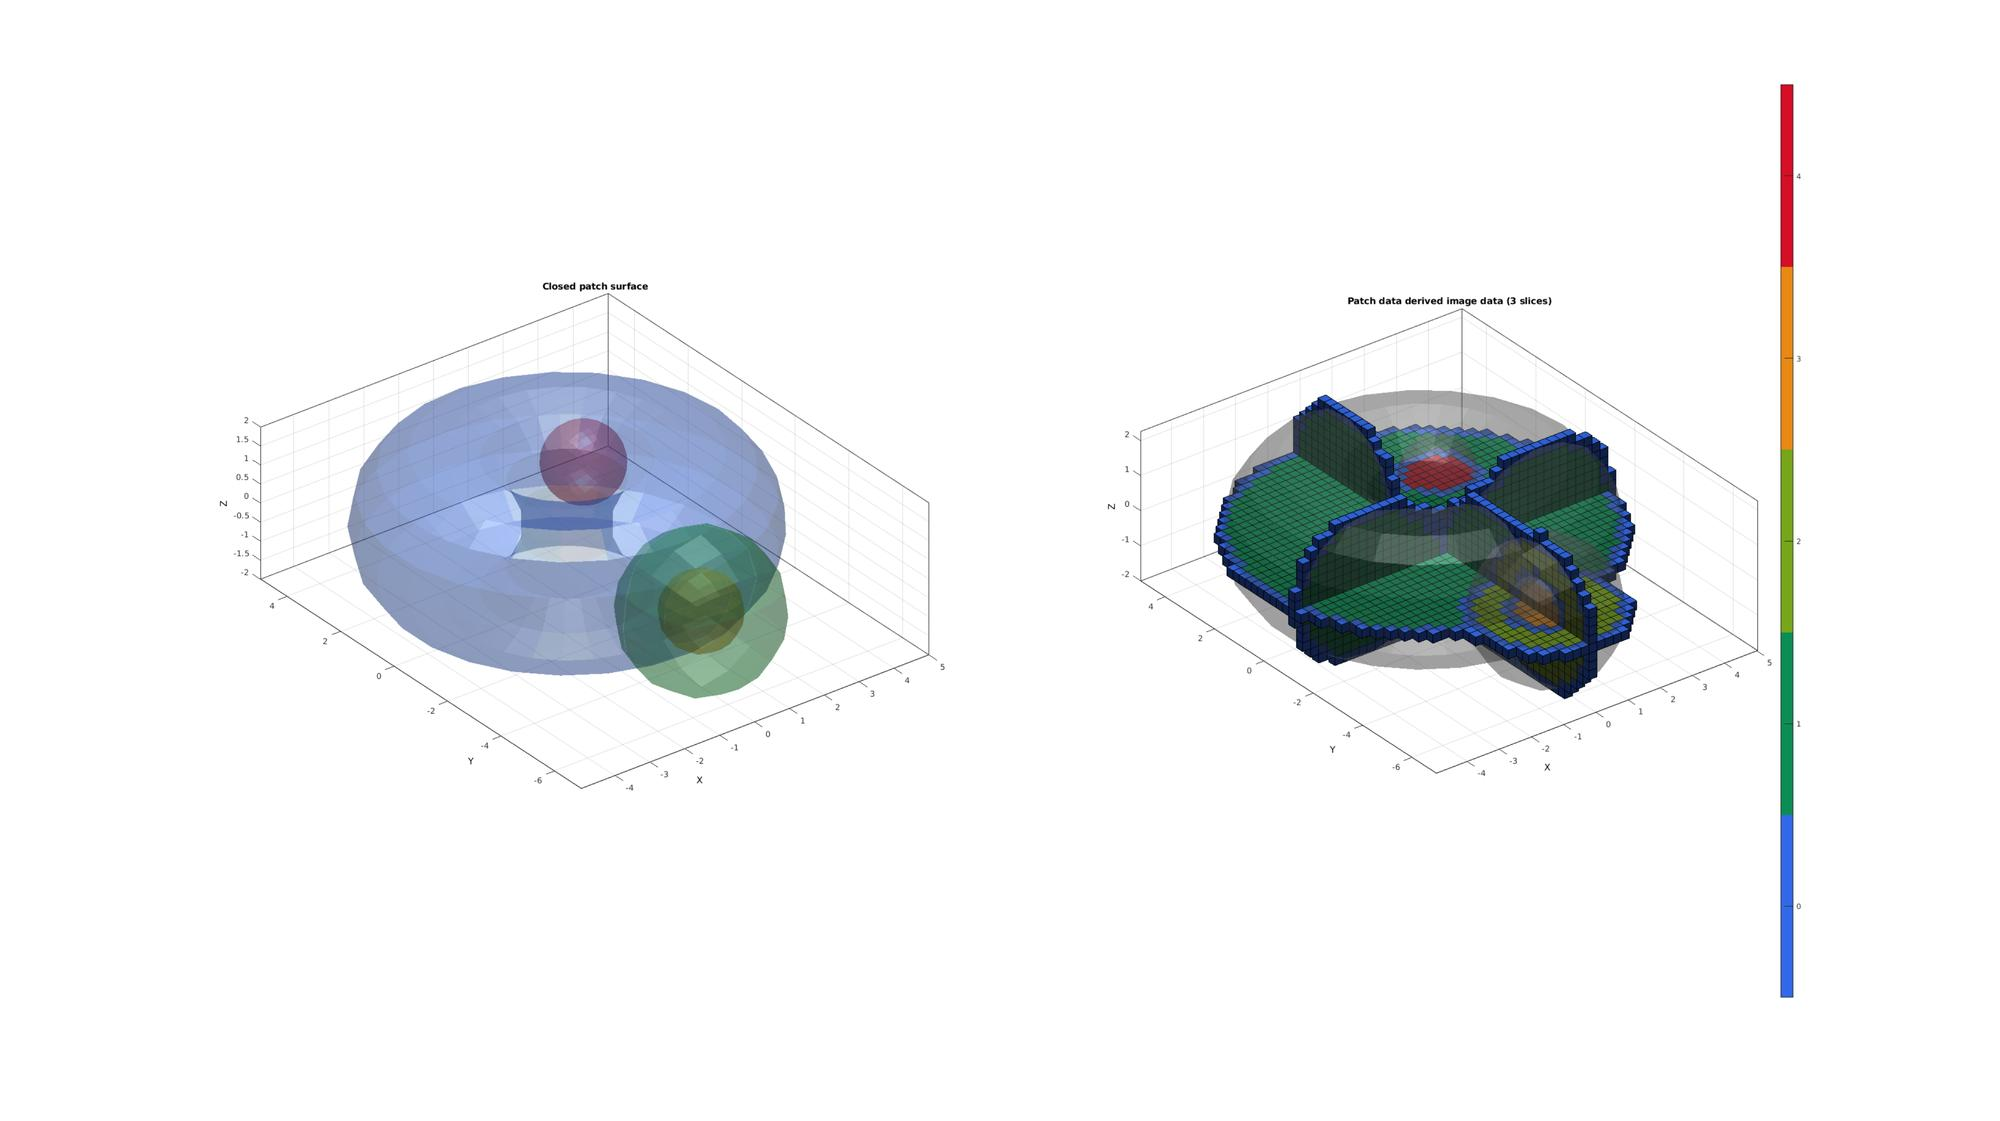
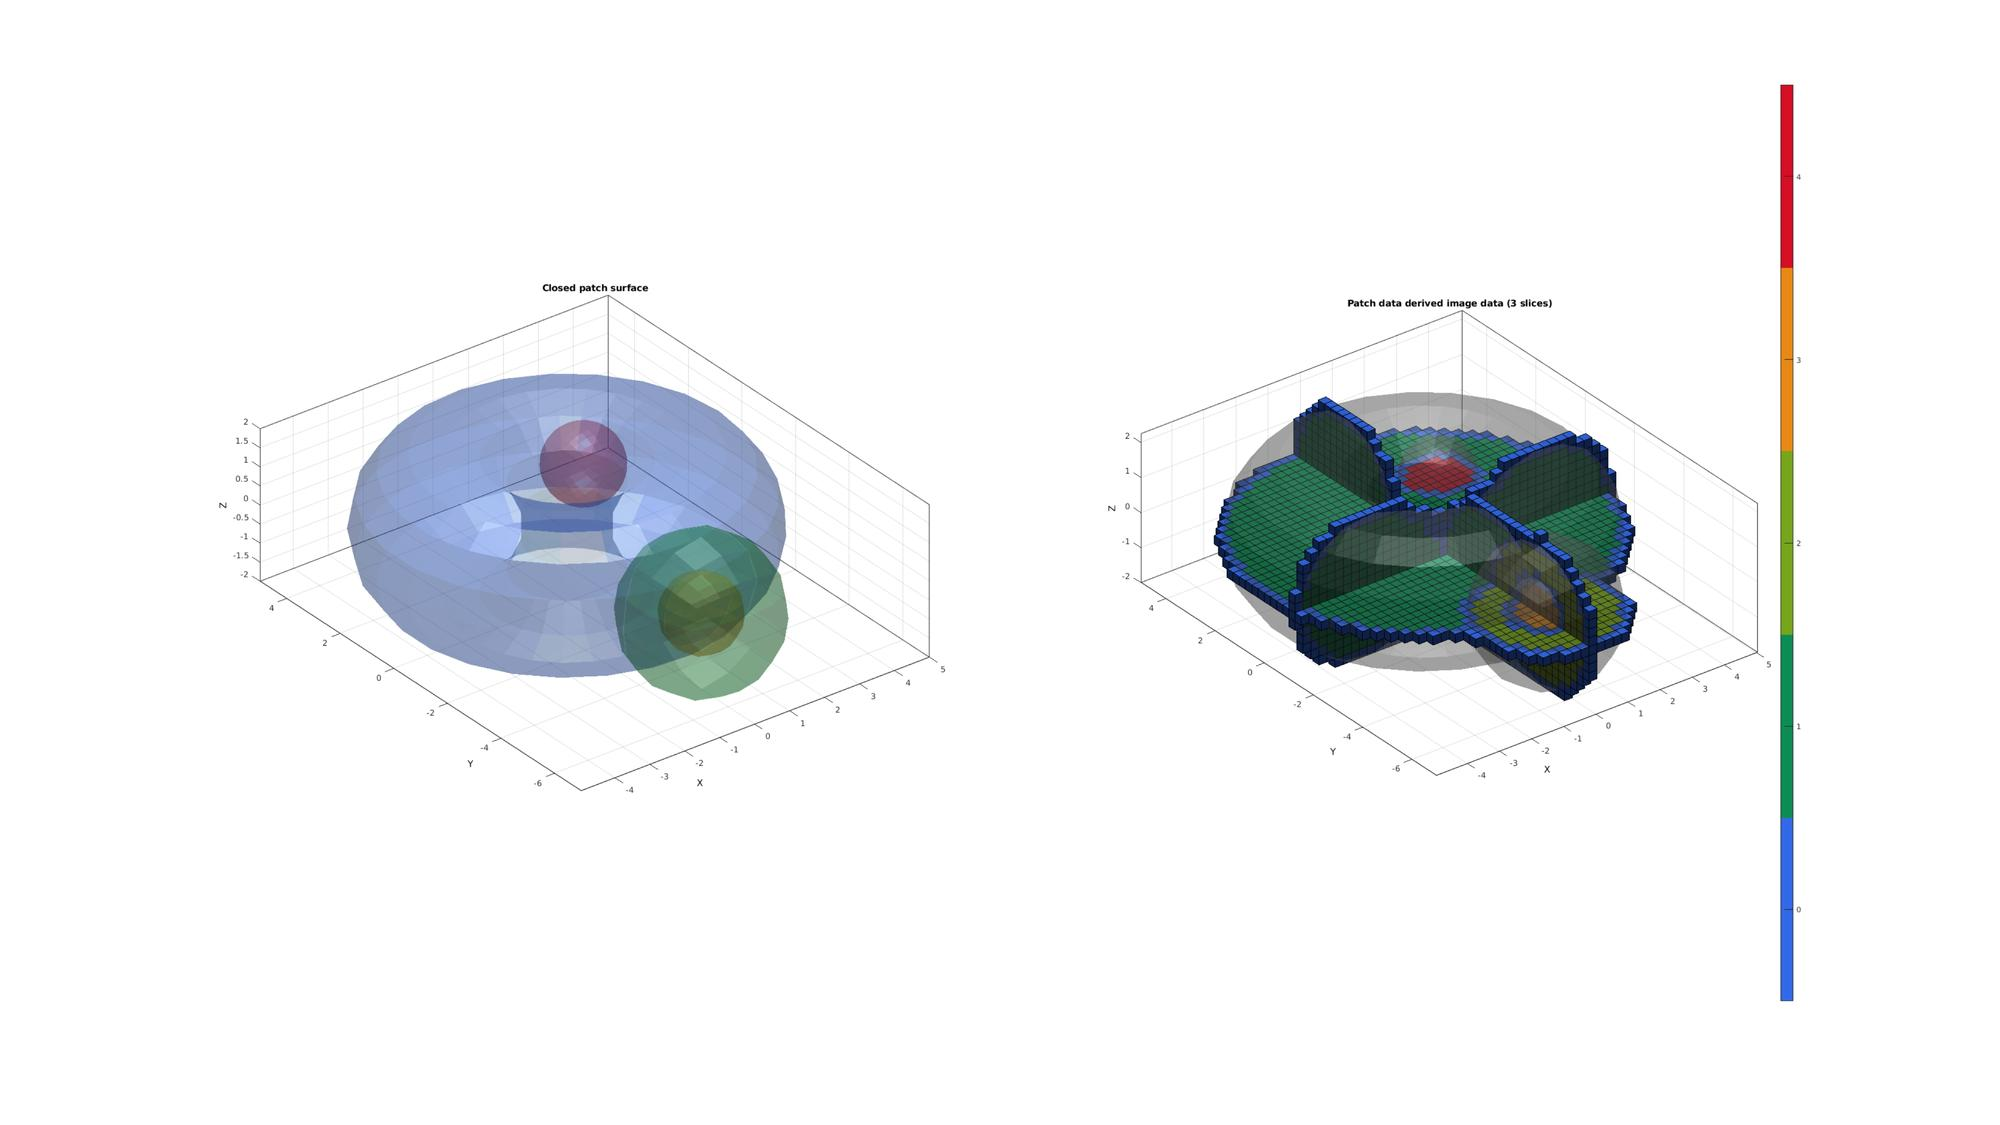
Updated patch2Im documentation

diff --git a/docs/html/HELP_patch2Im.html b/docs/html/HELP_patch2Im.html
@@ -6,7 +6,7 @@
    <!--
 This HTML was auto-generated from MATLAB code.
 To make changes, update the MATLAB code and republish this document.
-      --><title>patch2Im</title><meta name="generator" content="MATLAB 9.6"><link rel="schema.DC" href="http://purl.org/dc/elements/1.1/"><meta name="DC.date" content="2019-06-20"><meta name="DC.source" content="HELP_patch2Im.m"><style type="text/css">
+      --><title>patch2Im</title><meta name="generator" content="MATLAB 9.6"><link rel="schema.DC" href="http://purl.org/dc/elements/1.1/"><meta name="DC.date" content="2019-06-28"><meta name="DC.source" content="HELP_patch2Im.m"><style type="text/css">
 html,body,div,span,applet,object,iframe,h1,h2,h3,h4,h5,h6,p,blockquote,pre,a,abbr,acronym,address,big,cite,code,del,dfn,em,font,img,ins,kbd,q,s,samp,small,strike,strong,sub,sup,tt,var,b,u,i,center,dl,dt,dd,ol,ul,li,fieldset,form,label,legend,table,caption,tbody,tfoot,thead,tr,th,td{margin:0;padding:0;border:0;outline:0;font-size:100%;vertical-align:baseline;background:transparent}body{line-height:1}ol,ul{list-style:none}blockquote,q{quotes:none}blockquote:before,blockquote:after,q:before,q:after{content:'';content:none}:focus{outine:0}ins{text-decoration:none}del{text-decoration:line-through}table{border-collapse:collapse;border-spacing:0}
 
 html { min-height:100%; margin-bottom:1px; }
@@ -90,7 +90,7 @@ L_plot(:,:,round(size(M,3)/2))=1;
 L_plot(round(size(M,1)/2),:,:)=1;
 L_plot(:,round(size(M,2)/2),:)=1;
 L_plot=L_plot &amp; ~isnan(M);
-[Fm,Vm,Cm]=ind2patch(L_plot,double(M),<span class="string">'v'</span>);
+[Fm,Vm,Cm]=im2patch(M,L_plot,<span class="string">'v'</span>);
 [Vm(:,1),Vm(:,2),Vm(:,3)]=im2cart(Vm(:,2),Vm(:,1),Vm(:,3),voxelSize*ones(1,3));
 Vm=Vm+imOrigin(ones(size(Vm,1),1),:);
 
@@ -129,7 +129,7 @@ L_plot(:,:,round(size(M,3)/2))=1;
 L_plot(round(size(M,1)/2),:,:)=1;
 L_plot(:,round(size(M,2)/2),:)=1;
 L_plot=L_plot &amp; ~isnan(M);
-[Fm,Vm,Cm]=ind2patch(L_plot,double(M),<span class="string">'v'</span>);
+[Fm,Vm,Cm]=im2patch(M,L_plot,<span class="string">'v'</span>);
 [Vm(:,1),Vm(:,2),Vm(:,3)]=im2cart(Vm(:,2),Vm(:,1),Vm(:,3),voxelSize*ones(1,3));
 Vm=Vm+imOrigin(ones(size(Vm,1),1),:);
 
@@ -184,7 +184,7 @@ L_plot(:,:,round(size(M,3)/2))=1;
 L_plot(round(size(M,1)/2),:,:)=1;
 L_plot(:,round(size(M,2)/2),:)=1;
 L_plot=L_plot &amp; ~isnan(M);
-[Fm,Vm,Cm]=ind2patch(L_plot,double(M),<span class="string">'v'</span>);
+[Fm,Vm,Cm]=im2patch(M,L_plot,<span class="string">'v'</span>);
 [Vm(:,1),Vm(:,2),Vm(:,3)]=im2cart(Vm(:,2),Vm(:,1),Vm(:,3),voxelSize*ones(1,3));
 Vm=Vm+imOrigin(ones(size(Vm,1),1),:);
 
@@ -263,7 +263,7 @@ L_plot(:,:,round(size(M,3)/2))=1;
 L_plot(round(size(M,1)/2),:,:)=1;
 L_plot(:,round(size(M,2)/2),:)=1;
 L_plot=L_plot & ~isnan(M);
-[Fm,Vm,Cm]=ind2patch(L_plot,double(M),'v');
+[Fm,Vm,Cm]=im2patch(M,L_plot,'v');
 [Vm(:,1),Vm(:,2),Vm(:,3)]=im2cart(Vm(:,2),Vm(:,1),Vm(:,3),voxelSize*ones(1,3));
 Vm=Vm+imOrigin(ones(size(Vm,1),1),:);
 
@@ -313,7 +313,7 @@ L_plot(:,:,round(size(M,3)/2))=1;
 L_plot(round(size(M,1)/2),:,:)=1;
 L_plot(:,round(size(M,2)/2),:)=1;
 L_plot=L_plot & ~isnan(M);
-[Fm,Vm,Cm]=ind2patch(L_plot,double(M),'v');
+[Fm,Vm,Cm]=im2patch(M,L_plot,'v');
 [Vm(:,1),Vm(:,2),Vm(:,3)]=im2cart(Vm(:,2),Vm(:,1),Vm(:,3),voxelSize*ones(1,3));
 Vm=Vm+imOrigin(ones(size(Vm,1),1),:);
 
@@ -378,7 +378,7 @@ L_plot(:,:,round(size(M,3)/2))=1;
 L_plot(round(size(M,1)/2),:,:)=1;
 L_plot(:,round(size(M,2)/2),:)=1;
 L_plot=L_plot & ~isnan(M);
-[Fm,Vm,Cm]=ind2patch(L_plot,double(M),'v');
+[Fm,Vm,Cm]=im2patch(M,L_plot,'v');
 [Vm(:,1),Vm(:,2),Vm(:,3)]=im2cart(Vm(:,2),Vm(:,1),Vm(:,3),voxelSize*ones(1,3));
 Vm=Vm+imOrigin(ones(size(Vm,1),1),:);
 

diff --git a/docs/HELP_patch2Im.m b/docs/HELP_patch2Im.m
@@ -51,7 +51,7 @@ L_plot(:,:,round(size(M,3)/2))=1;
 L_plot(round(size(M,1)/2),:,:)=1;
 L_plot(:,round(size(M,2)/2),:)=1;
 L_plot=L_plot & ~isnan(M);
-[Fm,Vm,Cm]=ind2patch(L_plot,double(M),'v');
+[Fm,Vm,Cm]=im2patch(M,L_plot,'v');
 [Vm(:,1),Vm(:,2),Vm(:,3)]=im2cart(Vm(:,2),Vm(:,1),Vm(:,3),voxelSize*ones(1,3));
 Vm=Vm+imOrigin(ones(size(Vm,1),1),:);
 
@@ -101,7 +101,7 @@ L_plot(:,:,round(size(M,3)/2))=1;
 L_plot(round(size(M,1)/2),:,:)=1;
 L_plot(:,round(size(M,2)/2),:)=1;
 L_plot=L_plot & ~isnan(M);
-[Fm,Vm,Cm]=ind2patch(L_plot,double(M),'v');
+[Fm,Vm,Cm]=im2patch(M,L_plot,'v');
 [Vm(:,1),Vm(:,2),Vm(:,3)]=im2cart(Vm(:,2),Vm(:,1),Vm(:,3),voxelSize*ones(1,3));
 Vm=Vm+imOrigin(ones(size(Vm,1),1),:);
 
@@ -166,7 +166,7 @@ L_plot(:,:,round(size(M,3)/2))=1;
 L_plot(round(size(M,1)/2),:,:)=1;
 L_plot(:,round(size(M,2)/2),:)=1;
 L_plot=L_plot & ~isnan(M);
-[Fm,Vm,Cm]=ind2patch(L_plot,double(M),'v');
+[Fm,Vm,Cm]=im2patch(M,L_plot,'v');
 [Vm(:,1),Vm(:,2),Vm(:,3)]=im2cart(Vm(:,2),Vm(:,1),Vm(:,3),voxelSize*ones(1,3));
 Vm=Vm+imOrigin(ones(size(Vm,1),1),:);
 
